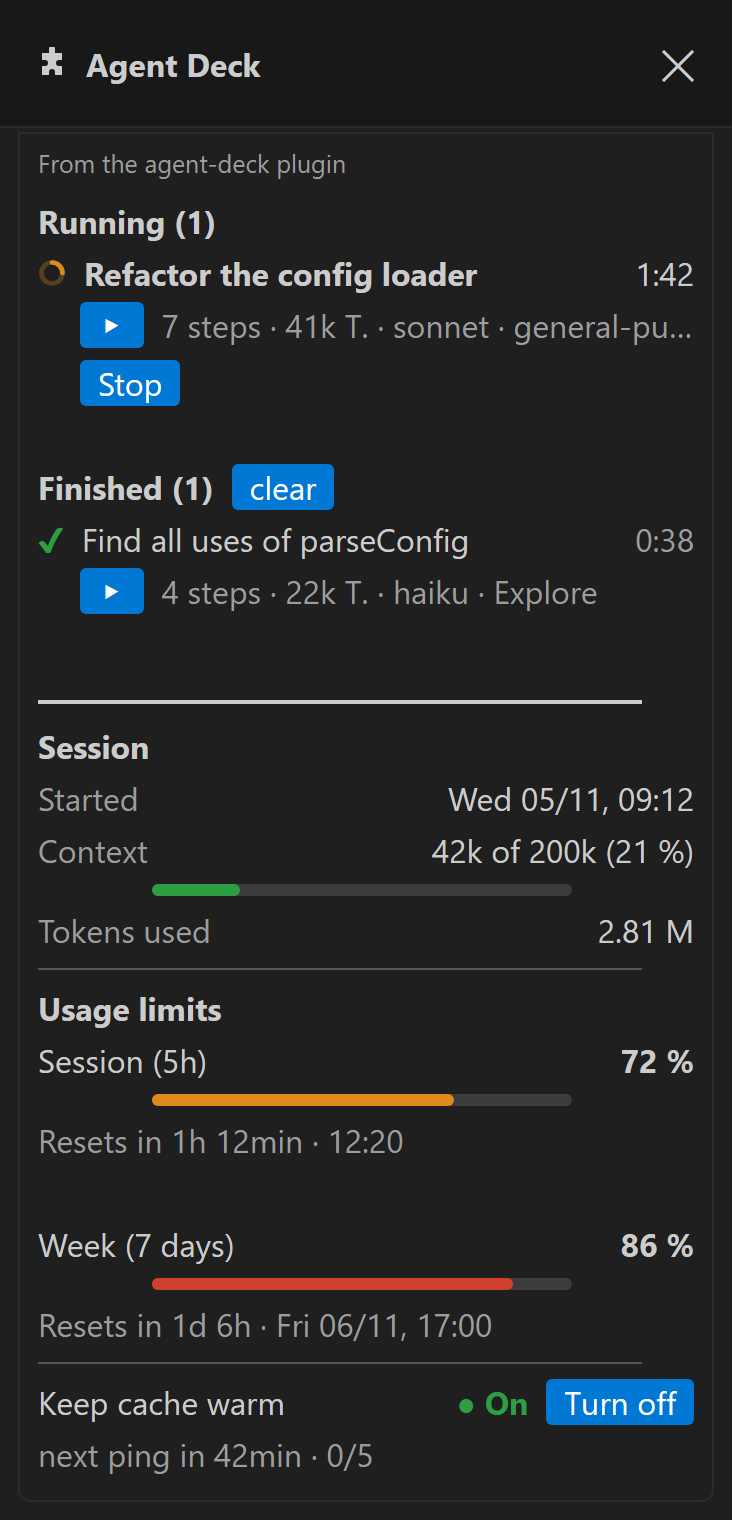
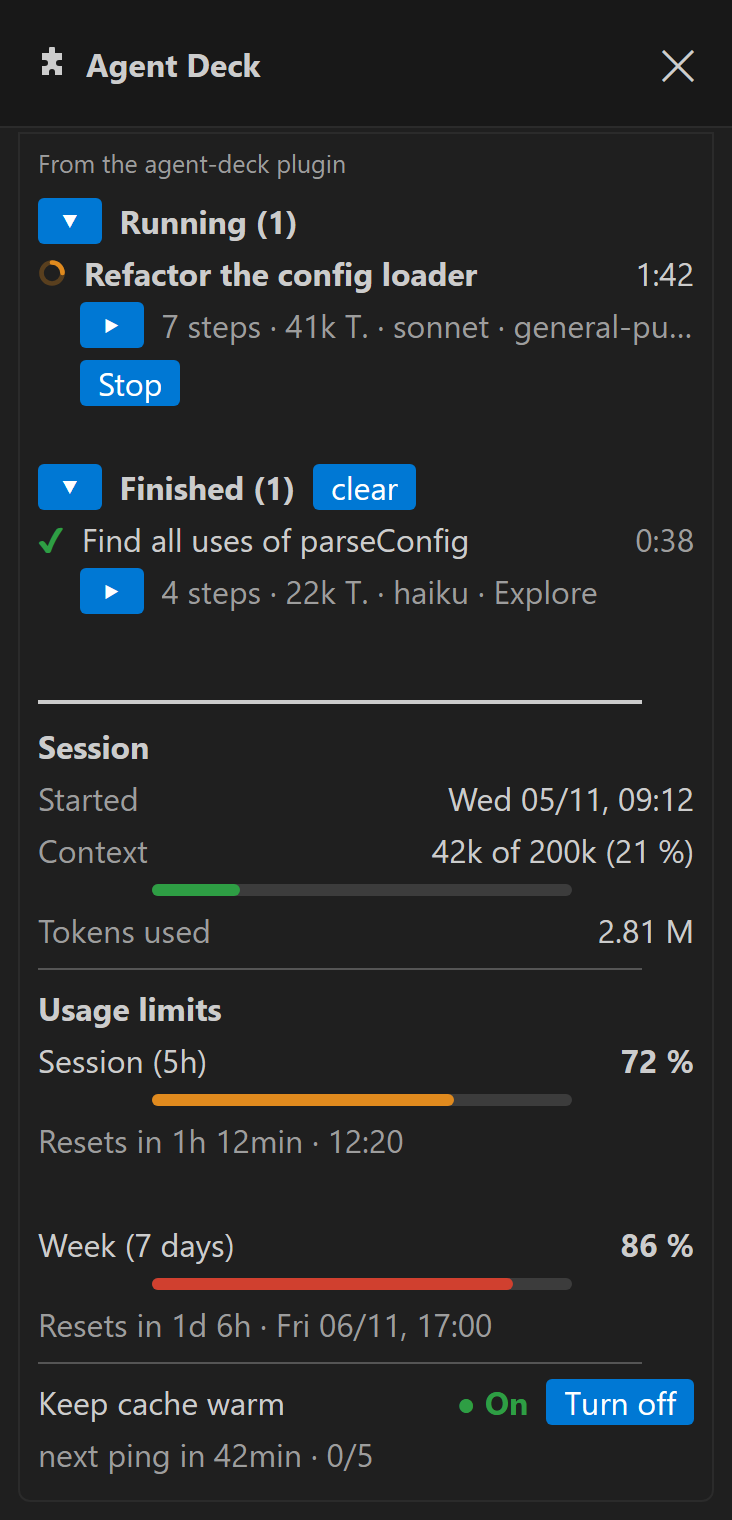
README: overview screenshot in VS Code; pane pictures (light, dark) with the fold arrows

Changed region(s): [[0.0301, 0.2783, 0.571, 0.3401], [0.0301, 0.1237, 0.4208, 0.1855]]

diff --git a/README.de.md b/README.de.md
@@ -6,6 +6,8 @@ Ein Seitenpanel für [Claude Code](https://claude.com/claude-code), das zeigt, w
 
 **Optimiert für VS Code.** Es läuft auch im Terminal und in der Desktop-App, abgestimmt und geprüft ist das Layout aber in der Claude-Code-Erweiterung für VS Code.
 
+<img src="docs/overview.png" alt="Das Agent Deck neben einem Claude-Code-Chat in VS Code: ein laufender und ein fertiger Subagent, Sitzung, Nutzungslimits und der Knopf zum Warmhalten des Caches">
+
 ## Installieren
 
 Im Eingabefeld von Claude Code:

diff --git a/README.md b/README.md
@@ -6,6 +6,8 @@ A side pane for [Claude Code](https://claude.com/claude-code) that shows what yo
 
 **Optimized for VS Code.** It also runs in the terminal and in the desktop app, but its layout has been tuned and checked in the Claude Code extension for VS Code.
 
+<img src="docs/overview.png" alt="Agent Deck docked beside a Claude Code chat in VS Code: a running and a finished subagent, session, usage limits and the keep-cache-warm switch">
+
 ## Install
 
 At the Claude Code prompt:
